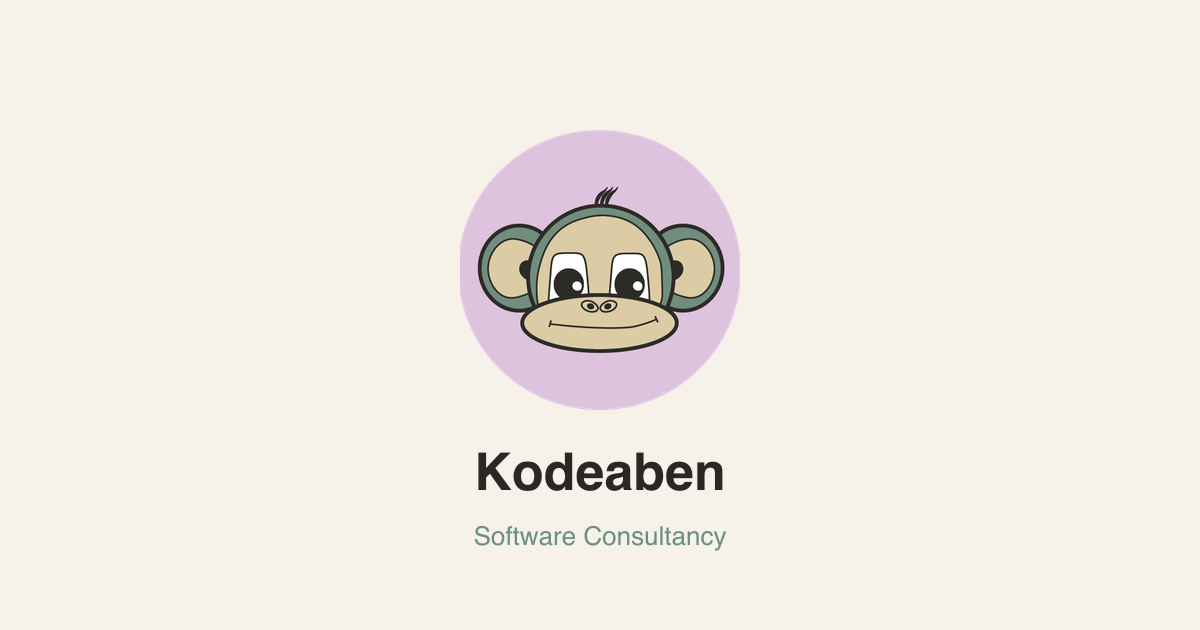
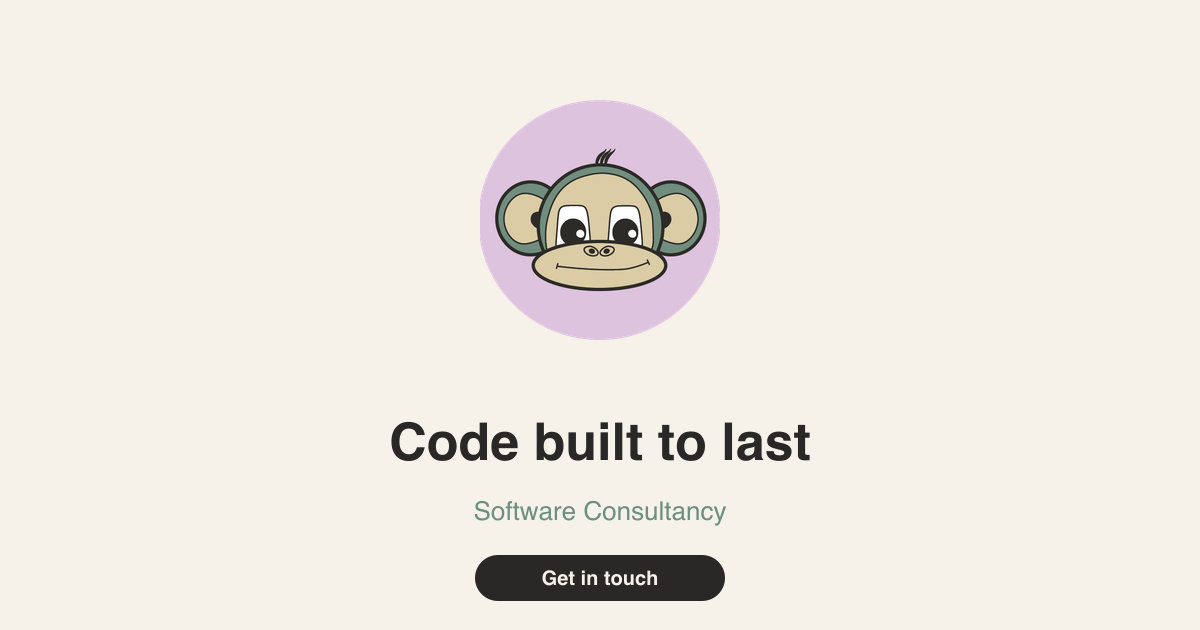
Improve OG title length and add headline/CTA to social card image
Expand og:title to include "in Denmark" for better character count.
Regenerate OG image with "Code built to last" headline and
"Get in touch" CTA button for higher social engagement.

Changed region(s): [[0.3083, 0.1508, 0.6783, 0.9651]]

diff --git a/index.html b/index.html
@@ -7,7 +7,7 @@
   <meta name="description" content="Kodeaben is a software consultancy run by Anders Stensgaard. Specialising in frontend development, mentoring, education, and technical hiring support.">
   <link rel="canonical" href="https://www.kodeaben.com/">
   <meta property="og:type" content="website">
-  <meta property="og:title" content="Kodeaben — Software Consultancy">
+  <meta property="og:title" content="Kodeaben — Software Consultancy in Denmark">
   <meta property="og:description" content="Kodeaben is a software consultancy run by Anders Stensgaard. Specialising in frontend development, mentoring, education, and technical hiring support.">
   <meta property="og:url" content="https://www.kodeaben.com/">
   <meta property="og:image" content="https://www.kodeaben.com/design-system/assets/og-image.png">
@@ -16,7 +16,7 @@
   <meta property="og:site_name" content="Kodeaben">
   <meta property="og:locale" content="en_DK">
   <meta name="twitter:card" content="summary_large_image">
-  <meta name="twitter:title" content="Kodeaben — Software Consultancy">
+  <meta name="twitter:title" content="Kodeaben — Software Consultancy in Denmark">
   <meta name="twitter:description" content="Kodeaben is a software consultancy run by Anders Stensgaard. Specialising in frontend development, mentoring, education, and technical hiring support.">
   <meta name="twitter:image" content="https://www.kodeaben.com/design-system/assets/og-image.png">
   <link rel="icon" type="image/png" href="design-system/assets/logo.png">
